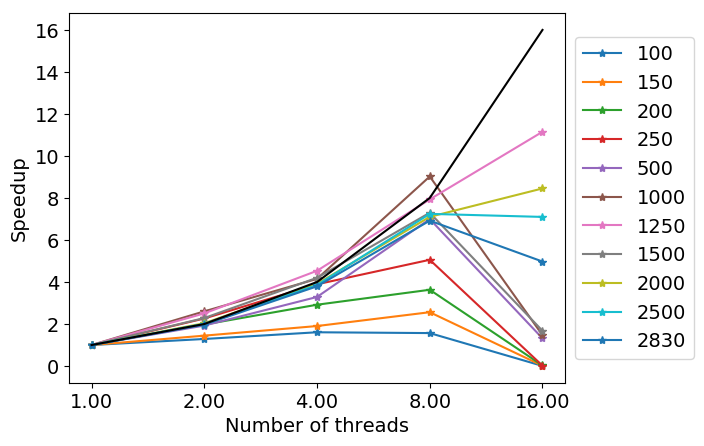
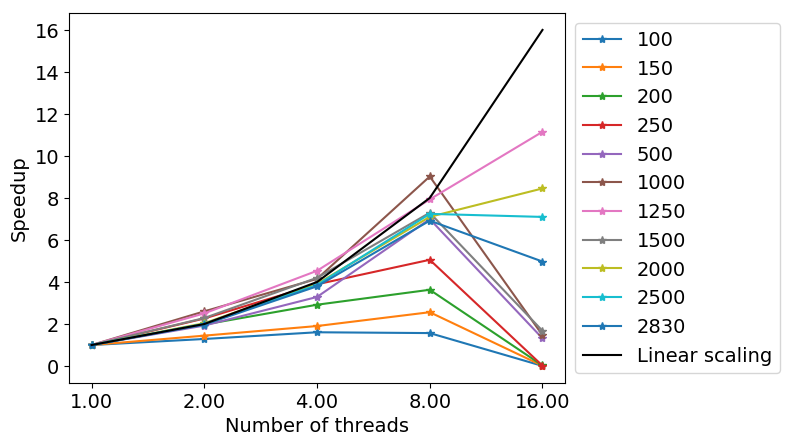
Added legend linear scaling

diff --git a/data/vizfun.py b/data/vizfun.py
@@ -74,8 +74,8 @@ for files, names in zip(['statfun_poisson_naive.dat','statfun_poisson_openmp1.da
 	df1['Speedup'] = df1['WallTimeFirst']/df1['WallTime']
 	df1.set_index("Threads", inplace=True)
 	ax = df1.groupby("Size")["Speedup"].plot(legend=True, style ='*-')
+	plt.plot(np.array([1,2,4,8,16]),np.array([1,2,4,8,16]),'k-',label='Linear scaling')
 	plt.legend(loc='center left', bbox_to_anchor=(1, 0.5))
-	plt.plot(np.array([1,2,4,8,16]),np.array([1,2,4,8,16]),'k-')
 	plt.xlabel('Number of threads')
 	plt.ylabel('Speedup')
 	plt.xscale('log',basex=2)
